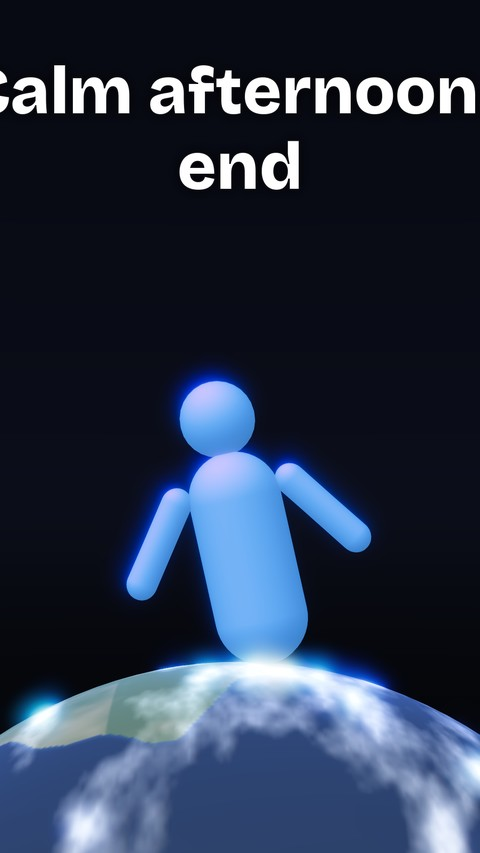
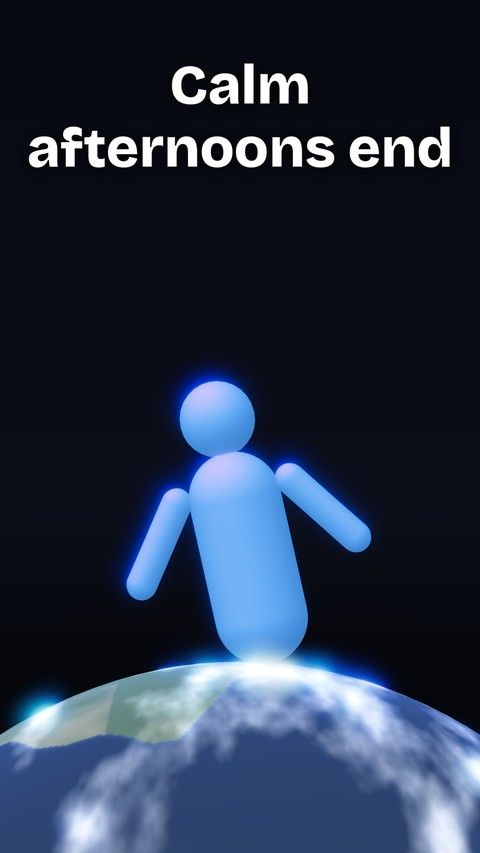
Whatif S3 Part 5: cover text fits the frame
Claude-Session: https://claude.ai/code/session_0192s8Y1xRpDJrHHuVmHV4P8

Changed region(s): [[0.0, 0.061, 1.0, 0.2438]]

diff --git a/films/channels/whatif/longform/earth-spin/make_packaging.py b/films/channels/whatif/longform/earth-spin/make_packaging.py
@@ -2,7 +2,7 @@
 figure doing the action, the goal in frame, the setup never the answer). Run after the film is final to fix frameSeconds; the text is final now.
 Part titles = the chapter titles in the long video's description, character for character (Prism links parts to the film by them)."""
 import json
-COVER = {1: (28.3, "24 h to 90 min"), 2: (None, "Sunset in 6 hours"), 3: (25.0, "1,670 km/h wind"), 4: (None, "Seas pile up here")}      # part -> (frame second, cover words that add a new layer; never the title); None = made from the owner's AI illustration
+COVER = {5: (9, "Calm afternoons end"), 1: (28.3, "24 h to 90 min"), 2: (None, "Sunset in 6 hours"), 3: (25.0, "1,670 km/h wind"), 4: (None, "Seas pile up here")}      # part -> (frame second, cover words that add a new layer; never the title); None = made from the owner's AI illustration
 
 from pathlib import Path
 HERE = Path(__file__).resolve().parent
